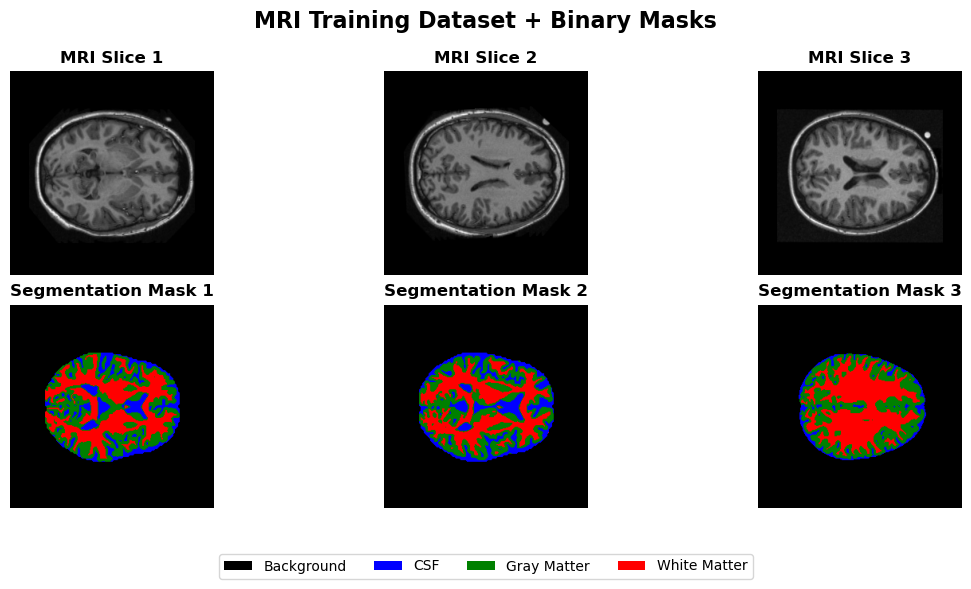
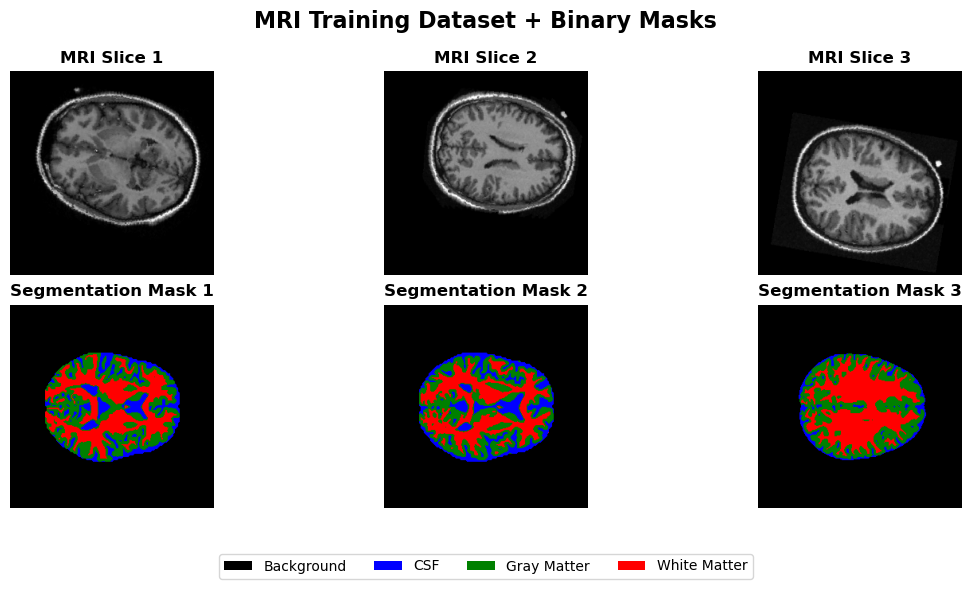
Updated MRI OASIS Train dataset images which are augmented for better training

Changed region(s): [[0.4016, 0.1528, 0.6179, 0.4278], [0.0309, 0.1528, 0.2163, 0.4278], [0.8033, 0.1834, 0.9887, 0.4278]]

diff --git a/recognition/improved_unet_47996283/README.md b/recognition/improved_unet_47996283/README.md
@@ -63,6 +63,8 @@ the Rangpur cluster and training, validation and testing was also done on the Ra
 Rangpur Path: /home/groups/comp3710/OASIS)
 
 ### Example Usage for loading the Datasets:
+For the training dataset, the images were randomly augmented to prevent overfitting and improve training
+performance for the segmentation task. Validation set was not altered.
 ```
 tl, vl = get_dataloaders(batch_size=4)
 train_dataset = tl.dataset
@@ -73,15 +75,19 @@ show_examples(val_dataset, title="MRI Validation Dataset + Binary Masks", n=3, s
 ![OASIS MRI Training Dataset + Masks](/recognition/improved_unet_47996283/images/train_examples.png)
 ![OASIS MRI Validation Dataset + Masks](/recognition/improved_unet_47996283/images/validation_examples.png)
 
+
 ### Example Usage for the training:
+For the training, the model prediction masks were plotted every 10 epochs to observe the performance of the model
+explicitly. The loss plot was plotted at the end of the training to evaluate the segmentation of the model.
 ```
 from dataset import get_dataloaders
 from model import UNet
 from train import train
 
-train_loader, val_loader = get_dataloaders(batch_size=8)
+train_loader, val_loader = get_dataloaders(batch_size=8, img_size=(256, 256))
 model = UNet(in_channels=1, out_channels=4)
-train(model, train_loader, val_loader.dataset, epochs=20, lr=1e-3)
+train_losses = train(model, train_loader, val_loader.dataset, num_classes=4, epochs=100, lr=1e-4, visualize_every=10)
+plot_loss(train_losses, metric_name="Dice Loss")
 ```
 
 ## References
